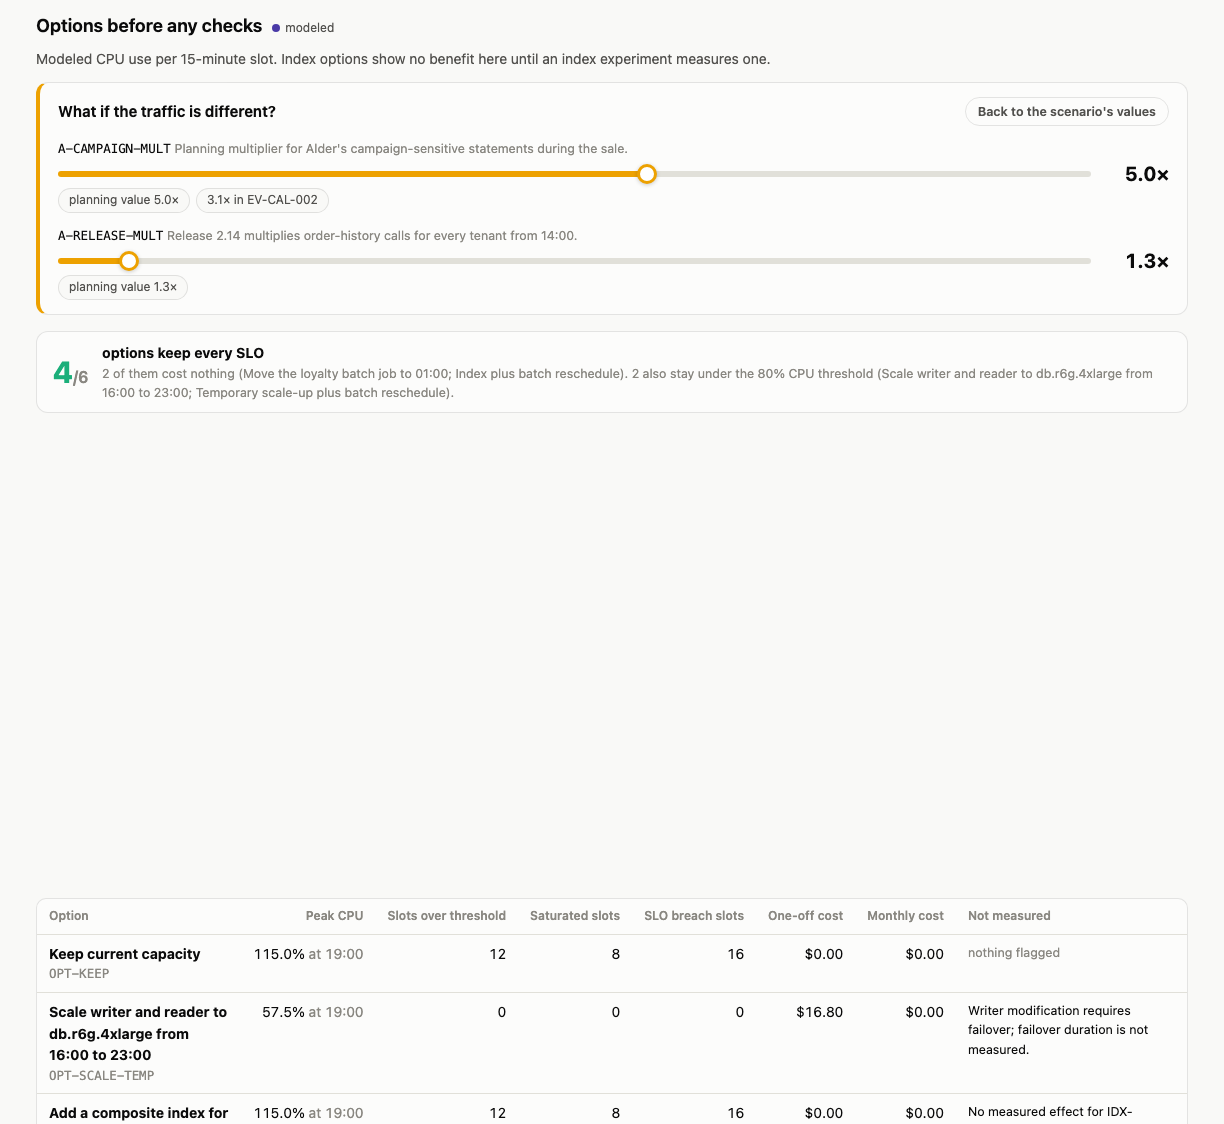
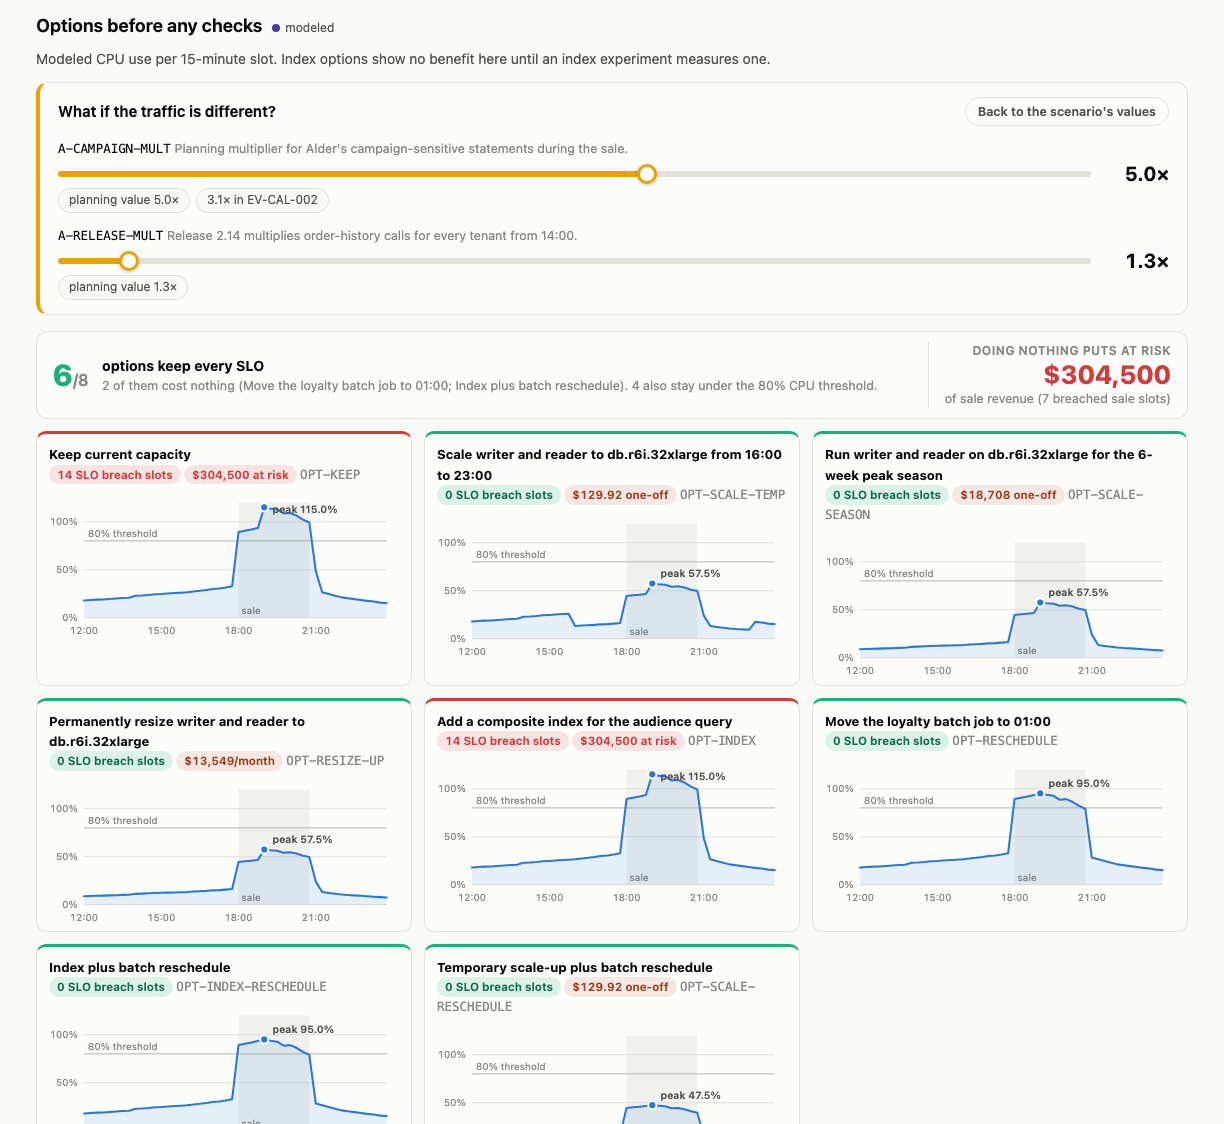
Refresh README, docs and screenshots for production-scale numbers
The README tells the example with the new cluster size, the sale revenue at stake,
the season and permanent options and the revenue at risk; assumption, entitlement,
options and comparison tables carry the new figures, and the real-model section
records both production-scale LLM runs, including the one stopped by the spend
limit. Screenshots come from the completed two-round review and are captured with
reduced motion so no card is caught mid-animation. Run-page option charts show
cost and revenue-at-risk badges like the scenario page.

diff --git a/src/capacitylab/web/templates/run.html b/src/capacitylab/web/templates/run.html
@@ -179,7 +179,11 @@ real engine at small scale; they are not production numbers.</p>
 {% for p in panels %}
   <figure class="panel">
     <figcaption><strong>{{ p.outcome.label }}</strong>
-      <div class="supporters">{% for pos in d.final_positions if pos.position == p.outcome.option_id %}{{ role_titles[pos.role] }}{% if not loop.last %}, {% endif %}{% else %}no role chose this{% endfor %}</div></figcaption>
+      <div class="supporters">{% for pos in d.final_positions if pos.position == p.outcome.option_id %}{{ role_titles[pos.role] }}{% if not loop.last %}, {% endif %}{% else %}no agent chose this{% endfor %}</div>
+      <div class="supporters">{% set o = p.outcome %}
+        {% if o.cost_delta_event_usd %}<span class="pill pill-cost">{{ o.cost_delta_event_usd|usd }} one-off</span>{% endif %}
+        {% if o.cost_delta_month_usd %}<span class="pill {{ 'pill-ok' if o.cost_delta_month_usd < 0 else 'pill-cost' }}">{{ o.cost_delta_month_usd|usd }}/month</span>{% endif %}
+        {% if o.revenue_at_risk_usd %}<span class="pill pill-bad">{{ o.revenue_at_risk_usd|usd }} at risk</span>{% endif %}</div></figcaption>
     {{ p.svg|safe }}
   </figure>
 {% endfor %}

diff --git a/scripts/capture_media.py b/scripts/capture_media.py
@@ -63,7 +63,7 @@ def main() -> int:
     FRAMES.mkdir(parents=True, exist_ok=True)
     runs_dir = tempfile.mkdtemp(prefix="capacitylab-media-")
     # Run pages are captured from a recorded review with a real model, not a scripted one.
-    live_source = ROOT / "runs" / os.environ.get("CAPTURE_RUN", "live-campaign-overlap-4.json")
+    live_source = ROOT / "runs" / os.environ.get("CAPTURE_RUN", "live-campaign-overlap-6.json")
     if not live_source.is_file():
         raise SystemExit(f"{live_source} not found: record a run with --provider anthropic, or set CAPTURE_RUN")
     # Derived parts of the decision record are rebuilt with the current code from the run's recorded turns (no model
@@ -99,7 +99,8 @@ def main() -> int:
         wait_for_server()
         with sync_playwright() as p:
             browser = p.chromium.launch()
-            page = browser.new_page(viewport=VIEWPORT, color_scheme="light")
+            # Reduced motion turns off the entrance animation, so cards below the fold are not captured mid-fade.
+            page = browser.new_page(viewport=VIEWPORT, color_scheme="light", reduced_motion="reduce")
 
             def frame(name: str) -> None:
                 path = FRAMES / f"{len(frames):02d}-{name}.png"

diff --git a/README.md b/README.md
@@ -213,7 +213,7 @@ rates for that review (see [Straight from AWS](#straight-from-aws)). The numbers
 labelled as an assumption: on-demand rates at production scale ($0.145 per vCPU-hour) without reserved-instance or
 savings-plan discounts. Replacing that one evidence item with your provider's rates re-prices every option.
 
-![Each option's modeled utilization over the evening, at the end of the Sonnet run](docs/media/run-options.png)
+![Each option's modeled utilization over the evening, with cost and revenue at risk, at the end of the LLM run](docs/media/run-options.png)
 
 On the scenario page, drag the traffic assumption and every option is re-modeled on the spot. At the 3.1× the tenant
 actually reached last time, all eight options keep every SLO and doing nothing risks $0; at the 5× planning value, six
@@ -222,10 +222,9 @@ $522,000:
 
 ![What-if slider set to 3.1x: all eight options keep every SLO, doing nothing risks $0, and which options cost nothing](docs/media/scenario-whatif.png)
 
-The chart above comes from the three-round LLM review, not the scripted run. Its index options show no
-benefit because that run's database engineer measured a different index (`tenant_id, customer_id, created_day`, 16.7%
-less work) from the one those options propose; with no measurement for the proposed index, the model credits it with
-nothing. The table above comes from the scripted run, which measured the proposed index.
+The chart above comes from the two-round LLM review, not the scripted run. Its index options show no benefit because
+no agent in that run asked for an index experiment, and the model credits an index with nothing until one is measured.
+The table above comes from the scripted run, which measured the proposed index.
 
 ### What the lab measured
 
@@ -359,9 +358,9 @@ flowchart LR
 Step through the rounds, or press play, to watch each agent's position change and see the checks that ran between
 rounds:
 
-![Round 2 of the LLM run in the round-by-round player: the database engineer has changed position, with challenges and requested checks](docs/media/run-player.png)
+![Round 2 of the LLM run in the round-by-round player: three agents decide, with their challenges, requested checks and the checks that ran](docs/media/run-player.png)
 
-*Screenshots of runs are from the three-round LLM review described [below](#runs-with-a-real-model),
+*Screenshots of runs are from the two-round LLM review described [below](#runs-with-a-real-model),
 where every role converged; the rounds above describe the scripted run, which split 4–1.*
 
 > [!NOTE]
@@ -512,7 +511,7 @@ capacitylab run campaign-overlap \
 capacitylab spend
 ```
 
-About $1–2 for three rounds; the run stops at your limit.
+About $2.40 for two rounds with Sonnet on this scenario; the run stops at your limit.
 
 </td>
 <td valign="top">
@@ -807,34 +806,41 @@ earlier rounds.
 
 Rough cost of a full review, using the live run's average turn length and the prices in `.env.example`:
 
-| Rounds | Model | Estimated cost |
-|---:|---|---:|
-| 2 | Sonnet | $0.74 |
-| 2 | Opus | $1.24 |
-| 3 | Sonnet | $1.09 |
-| 3 | Opus | $1.81 |
+| Review of `campaign-overlap` with the lab file | Cost |
+|---|---:|
+| 2 rounds with Sonnet, production-scale numbers (measured, 2026-09-17) | $2.40 |
+| 3 rounds with Sonnet, production-scale numbers (estimated from that run) | about $4 |
+| 3 rounds with Sonnet, before the production-scale numbers (measured, 2026-09-16) | $2.28 |
 
-Output is more than half of it, so the rest depends on how long the turns are, not on how much evidence is attached.
+Output is more than half of it, so cost depends on how long the turns are, not on how much evidence is attached. The
+production-scale scenario has more options and more money to argue about, and its turns run longer.
 
 ### Runs with a real model
 
-Two runs so far on `campaign-overlap` with the lab file attached:
+Four runs so far on `campaign-overlap` with the lab file attached. The last two use the production-scale numbers
+(clusters, options, revenue at risk); the screenshots come from the last one.
 
-| | Opus, 2026-09-15 | Sonnet, 2026-09-16 |
-|---|---|---|
-| **Outcome** | ![stopped](https://img.shields.io/badge/-stopped%20by%20the%20%242.00%20limit-9a6700?style=flat-square) 9 of 15 turns | ![complete](https://img.shields.io/badge/-3%20rounds%20complete-127a55?style=flat-square) 15 turns |
-| **Cost** | $1.94 | $2.28 |
-| **Outcome of the review** | 3–2 split: index and move the batch job, against scale up and move it | all five roles: move the batch job |
-| **Violations caught** | 8 (plus 3 checker mistakes, since fixed) | 4, all in round 1 |
+| | Opus, 09-15 | Sonnet, 09-16 | Sonnet, 09-17 | Sonnet, 09-17 |
+|---|---|---|---|---|
+| **Numbers** | small cluster | small cluster | production scale | production scale |
+| **Run** | ![stopped by the $2.00 limit](https://img.shields.io/badge/-stopped%20by%20the%20%242.00%20limit-9a6700?style=flat-square) 9 of 15 turns | ![3 rounds complete](https://img.shields.io/badge/-3%20rounds%20complete-127a55?style=flat-square) 15 turns | ![stopped by the $2.50 limit](https://img.shields.io/badge/-stopped%20by%20the%20%242.50%20limit-9a6700?style=flat-square) 9 of 15 turns | ![2 rounds complete](https://img.shields.io/badge/-2%20rounds%20complete-127a55?style=flat-square) 10 turns |
+| **Cost** | $1.94 | $2.28 | $2.37 | $2.40 |
+| **Outcome of the review** | 3–2 split: index and move the batch job, against scale up and move it | all five: move the batch job | four chose, all but one on moving the batch job; the tenant representative never got a round-2 turn | all five: move the batch job |
+| **Violations caught** | 8 (plus 3 checker mistakes, since fixed) | 4, all in round 1 | 10 | 6, all in round 2 |
 
-- **The two models disagreed about the answer.** Opus split 3–2, as the scripted roles do. Sonnet converged: after the
-  forecasts arrived, its database engineer moved to "index and move the batch job" in round 2, then back to "move the
-  batch job" in round 3, and the others followed. Unanimity is not agreement about truth; both runs used the same
-  evidence. Both also predate the three-pass lab run, which supports an audience-query benefit from the index but
-  cannot resolve what it does to checkout writes.
-- **What the checks caught in the Sonnet run:** two numbers quoted from the scenario summary instead of from cited
-  evidence, one proposal marked as measured without citing an experiment, and one role citing a gap id as if it were
-  evidence. The prompt now addresses the last two directly.
+- **The models disagreed about the answer.** Opus split 3–2. Sonnet converged twice on moving the batch job: in the
+  earlier run its database engineer went to "index and move the batch job" in round 2 and back in round 3; in the
+  production-scale run it chose the move in round 1 and the application owner, FinOps analyst and tenant representative
+  decided in round 2. Unanimity is not agreement about truth. None of these runs requested an index experiment, so the
+  index options show no benefit in their forecasts.
+- **Money changed the conversation.** In the production-scale run the agents quote the $304,500 of sale revenue at risk
+  if nothing changes, the $18,708 season scale-up and the $13,549-a-month resize against a $16,500 monthly budget, and
+  settle on the $0 option that keeps every SLO in the model.
+- **What the checks caught in the production-scale run:** the FinOps analyst quoted the $16,500 budget while citing
+  the cost estimate instead of the budget evidence, and worked out a -$18,408.48 headroom itself instead of quoting it;
+  the reliability engineer quoted 95% and 5× without citing where they came from. In the stopped run two agents cited
+  assumption names as if they were evidence; the prompt now says they are not, and the next run had no invalid
+  citations.
 - **One turn hit the output limit** and was retried with a request for a shorter turn, which saved the run. Both
   attempts were charged.
 - **Round 1 costs almost nothing in input** because the whole pack is written to the cache; rounds 2 and 3 re-send
@@ -939,7 +945,7 @@ docs/              provenance and release checklist, evaluation method, screensh
 | Both scenarios end to end with scripted roles, on SQLite and MySQL 8.0 | ![verified](https://img.shields.io/badge/-verified-127a55?style=flat-square) |
 | Lab runs and reviews that use them: MySQL with and without Percona Toolkit 3.7.1, PostgreSQL 17 | ![verified](https://img.shields.io/badge/-verified-127a55?style=flat-square) |
 | Importers, AWS import against Floci, spend limit, replay, comparison, web UI, leftover-reference scan | ![verified](https://img.shields.io/badge/-verified-127a55?style=flat-square) |
-| Five-agent review with an LLM (Claude Opus 5 and Sonnet 5) | ![verified](https://img.shields.io/badge/-verified%3A%203%20rounds%2C%20Sonnet%205-127a55?style=flat-square) |
+| Five-agent review with an LLM (Claude Opus 5 and Sonnet 5) | ![verified](https://img.shields.io/badge/-verified%3A%20production--scale%2C%202%20rounds-127a55?style=flat-square) |
 | CI on GitHub (Python 3.11, 3.12, MySQL 8.0 job, PostgreSQL 17 job) | ![passing](https://img.shields.io/badge/-passing-127a55?style=flat-square) |
 
 **Limitations**
